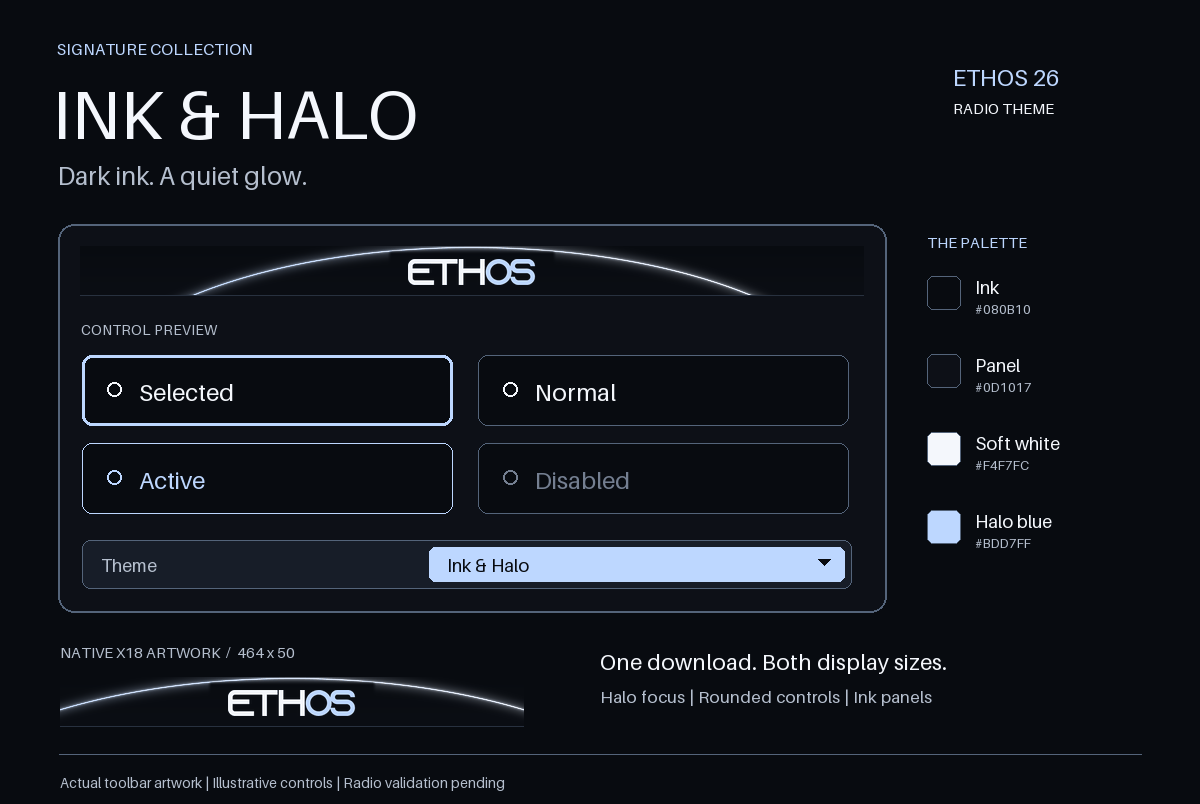
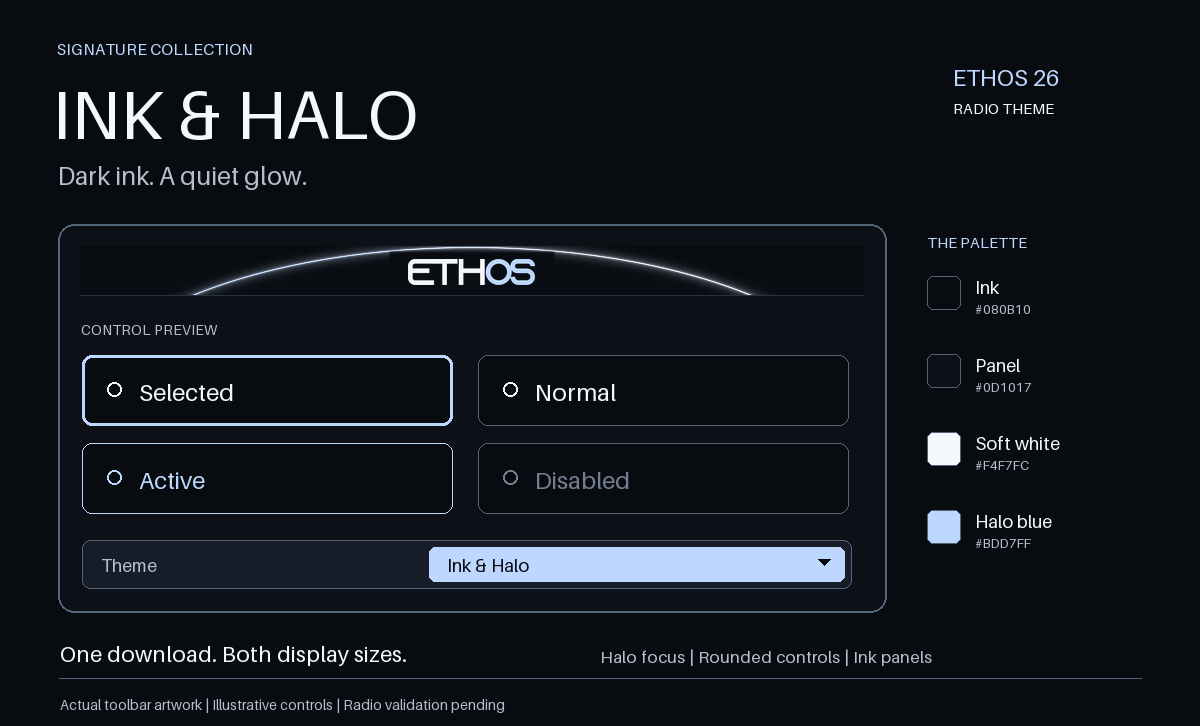
Simplify theme previews and bring the catalog forward

diff --git a/tools/preview_lib.py b/tools/preview_lib.py
@@ -9,7 +9,7 @@ ROOT = Path(__file__).resolve().parents[1]
 THEMES_ROOT = ROOT / "themes"
 PREVIEWS_ROOT = ROOT / "previews"
 ROLE_RE = re.compile(r"lcd\.RGB\(0x([0-9A-Fa-f]{2}),\s*0x([0-9A-Fa-f]{2}),\s*0x([0-9A-Fa-f]{2})\),\s*--\s*([A-Z_]+)")
-CARD_WIDTH, CARD_HEIGHT = 552, 442
+CARD_WIDTH, CARD_HEIGHT = 552, 366
 CARD_ROW_STEP = CARD_HEIGHT + 28
 
 
@@ -94,14 +94,9 @@ def draw_card(canvas, theme, x, y):
     scaled_height = round(large.height * 512 / large.width)
     large = large.resize((512, scaled_height), Image.Resampling.LANCZOS)
     canvas.paste(large, (x + 20, y + 83))
-    draw.text((x + 20, y + 127), "480 PX RADIOS  |  NATIVE HEADER",
-              font=font(12), fill=c["SECONDARY_COLOR"])
-    # Show the real X18 geometry at 1:1, centered in the same available width.
-    small = toolbar_preview(theme, display_width=480)
-    canvas.paste(small, (x + (width - small.width) // 2, y + 148))
     radius = 8 if theme["round"] else 0
     for index, label in enumerate(("Selected", "Normal", "Active", "Disabled")):
-        bx, by = x + 20 + index % 2 * 266, y + 219 + index // 2 * 72
+        bx, by = x + 20 + index % 2 * 266, y + 143 + index // 2 * 72
         fill, edge, foreground = panel, border, text
         if index == 0:
             edge = accent
@@ -117,16 +112,16 @@ def draw_card(canvas, theme, x, y):
         centered(draw, bounds, label, font(19, index == 0), foreground)
     # Show selected-fill text as well as outline focus: ETHOS uses highlight
     # colors in more places than the simple focus boxes shown above.
-    draw.rounded_rectangle((x + 20, y + 367, x + 179, y + 401), radius=5, fill=accent)
-    centered(draw, (x + 20, y + 367, x + 179, y + 401), "Highlight text", font(14, True), c["HIGHLIGHT_CONTRASTING_COLOR"])
-    draw.rounded_rectangle((x + 191, y + 367, x + 333, y + 401), radius=5, fill=c["SAFE_COLOR"])
-    centered(draw, (x + 191, y + 367, x + 333, y + 401), "Safe", font(14, True), c["SAFE_CONTRASTING_COLOR"])
-    draw.text((x + 352, y + 374), "Inactive", font=font(14), fill=c["INACTIVE_COLOR"])
-    draw.text((x + 20, y + 416), "ROUNDED CONTROLS" if theme["round"] else "SQUARE CONTROLS",
+    draw.rounded_rectangle((x + 20, y + 291, x + 179, y + 325), radius=5, fill=accent)
+    centered(draw, (x + 20, y + 291, x + 179, y + 325), "Highlight text", font(14, True), c["HIGHLIGHT_CONTRASTING_COLOR"])
+    draw.rounded_rectangle((x + 191, y + 291, x + 333, y + 325), radius=5, fill=c["SAFE_COLOR"])
+    centered(draw, (x + 191, y + 291, x + 333, y + 325), "Safe", font(14, True), c["SAFE_CONTRASTING_COLOR"])
+    draw.text((x + 352, y + 298), "Inactive", font=font(14), fill=c["INACTIVE_COLOR"])
+    draw.text((x + 20, y + 340), "ROUNDED CONTROLS" if theme["round"] else "SQUARE CONTROLS",
               font=font(10), fill=c["SECONDARY_COLOR"])
     for index, role in enumerate(("HIGHLIGHT_COLOR", "ACTIVE_COLOR", "WARNING_COLOR", "ERROR_COLOR")):
         left = x + 450 + index * 22
-        draw.ellipse((left, y + 417, left + 12, y + 429), fill=c[role])
+        draw.ellipse((left, y + 341, left + 12, y + 353), fill=c[role])
 
 
 def render_collection(slug, title, theme_slugs, *, display_names=None):

diff --git a/tools/generate_america250_theme.py b/tools/generate_america250_theme.py
@@ -108,7 +108,7 @@ def palette():
 def preview():
     theme = parse_theme(SLUG)
     colors = theme["colors"]
-    canvas = Image.new("RGB", (1200, 804), NAVY)
+    canvas = Image.new("RGB", (1200, 726), NAVY)
     draw = ImageDraw.Draw(canvas)
     # Pillow's embedded scalable font is portable across Windows and Linux.
     def font(size):
@@ -140,13 +140,10 @@ def preview():
         draw.rounded_rectangle((925, y, 958, y + 33), radius=5, fill=color,
                                outline=colors["BUTTON_BORDER_COLOR"])
         draw.text((973, y + 7), label, font=font(17), fill=IVORY)
-    draw.text((60, 638), "NATIVE X18 ARTWORK  /  464 x 50", font=font(16), fill=BLUE)
-    with Image.open(THEMES_ROOT / "theme-america250" / "toolbar-america250-x18.png") as art:
-        canvas.paste(art.convert("RGB"), (60, 676))
-    draw.text((602, 645), "One download. Both display sizes.", font=font(23), fill=IVORY)
-    draw.text((602, 683), "Gold focus | Square controls | Navy panels", font=font(17), fill=BLUE)
-    draw.line((59, 755, 1141, 755), fill=colors["BUTTON_BORDER_COLOR"])
-    draw.text((60, 773), "Actual toolbar artwork | Illustrative controls | Radio validation pending",
+    draw.text((60, 640), "One download. Both display sizes.", font=font(23), fill=IVORY)
+    draw.text((602, 646), "Gold focus | Square controls | Navy panels", font=font(17), fill=BLUE)
+    draw.line((59, 678, 1141, 678), fill=colors["BUTTON_BORDER_COLOR"])
+    draw.text((60, 696), "Actual toolbar artwork | Illustrative controls | Radio validation pending",
               font=font(14), fill=BLUE)
     PREVIEWS_ROOT.mkdir(parents=True, exist_ok=True)
     canvas.save(PREVIEWS_ROOT / "america250.png", optimize=True)

diff --git a/tools/generate_ink_halo_theme.py b/tools/generate_ink_halo_theme.py
@@ -89,7 +89,7 @@ def preview():
     accent = colors["HIGHLIGHT_COLOR"]
     secondary = colors["SECONDARY_COLOR"]
     border = colors["BUTTON_BORDER_COLOR"]
-    canvas = Image.new("RGB", (1200, 804), page)
+    canvas = Image.new("RGB", (1200, 726), page)
     draw = ImageDraw.Draw(canvas)
 
     def font(size):
@@ -137,13 +137,10 @@ def preview():
         draw.text((975, y), label, font=font(18), fill=text)
         draw.text((975, y + 25), "#" + "".join(f"{channel:02X}" for channel in color),
                   font=font(13), fill=secondary)
-    draw.text((60, 643), "NATIVE X18 ARTWORK  /  464 x 50", font=font(15), fill=secondary)
-    with Image.open(THEMES_ROOT / "theme-ink-halo" / "toolbar-ink-halo-x18.png") as art:
-        canvas.paste(art.convert("RGB"), (60, 677))
-    draw.text((600, 648), "One download. Both display sizes.", font=font(22), fill=text)
-    draw.text((600, 686), "Halo focus | Rounded controls | Ink panels", font=font(17), fill=secondary)
-    draw.line((59, 754, 1141, 754), fill=border)
-    draw.text((60, 774), "Actual toolbar artwork | Illustrative controls | Radio validation pending",
+    draw.text((60, 640), "One download. Both display sizes.", font=font(22), fill=text)
+    draw.text((600, 646), "Halo focus | Rounded controls | Ink panels", font=font(17), fill=secondary)
+    draw.line((59, 678, 1141, 678), fill=border)
+    draw.text((60, 696), "Actual toolbar artwork | Illustrative controls | Radio validation pending",
               font=font(14), fill=secondary)
     PREVIEWS_ROOT.mkdir(parents=True, exist_ok=True)
     canvas.save(PREVIEWS_ROOT / "ink-halo.png", optimize=True)

diff --git a/tools/test_preview_lib.py b/tools/test_preview_lib.py
@@ -53,7 +53,7 @@ class PreviewHeaderTests(unittest.TestCase):
             with self.assertRaisesRegex(ValueError, "Incomplete native theme"):
                 preview_lib.parse_theme("example")
 
-    def test_industrial_cards_show_both_headers_and_keep_everything_inside_bounds(self):
+    def test_industrial_cards_show_one_header_and_keep_everything_inside_bounds(self):
         for slug in ("carbon", "hazard"):
             with self.subTest(theme=slug):
                 theme = preview_lib.parse_theme(slug)
@@ -67,10 +67,6 @@ class PreviewHeaderTests(unittest.TestCase):
                 self.assertEqual(canvas.crop((x + 20, y + 83, x + 532,
                                               y + 83 + scaled_height)).tobytes(),
                                  expected_large.tobytes())
-                small = preview_lib.toolbar_preview(theme, display_width=480)
-                # The X18 sample remains 464x50 and occupies its own lower row.
-                self.assertEqual(canvas.crop((x + 44, y + 148, x + 508, y + 198)).tobytes(),
-                                 small.tobytes())
                 bounds = ImageChops.difference(canvas, background).getbbox()
                 self.assertIsNotNone(bounds)
                 self.assertGreaterEqual(bounds[0], x)

diff --git a/README.md b/README.md
@@ -2,19 +2,9 @@
 
 ## Radio compatibility
 
-Every current theme download automatically selects the correct toolbar artwork: **784x50** on 800px radios such as the X20 Pro and X18RS, or **464x50** on standard 480px X18 radios. One ZIP works on both display sizes.
+Standalone themes for **ETHOS 26.1.0 and newer**. One ZIP automatically selects the correct artwork for **800px radios** (X20 Pro, X18RS) or **480px X18 radios**.
 
-Standalone themes for FrSky ETHOS 26, with custom colors, controls, and toolbar artwork for the radio interface.
-
-**Current packages: seven updated themes v1.2.4; 59 collection themes v1.2.3; America 250 v1.2.1; Ink & Halo v1.0.2. All require ETHOS 26.1.0 or newer.** API checked against ETHOS 26.1.2. See [compatibility details and changes](ETHOS26.md). Physical-radio acceptance remains on the [testing checklist](TESTING.md).
-
-The **v1.2.4 refinements** fix Neon Horizon's sun stripes and deepen its perspective grid, strengthen selected-control outlines in Royal Blue Strong and Desert Tactical, and improve logo separation in Loom, Halftone, and Desert Tactical. Blue Pro and Classic Blue receive standalone-theme wording updates. Catalog previews now show the actual artwork for both radio sizes. [Changes and validation](ETHOS26.md#targeted-refinements-v124).
-
-The **v1.2.3 artwork update** restores continuous toolbar backgrounds and textures across the full width. Accent lines run below the ETHOS wordmark, while prominent illustrations sit beside it; there is no blank center strip. **Ink & Halo v1.0.2** keeps its wider, raised halo. Palettes, logo colors, and runtime behavior are preserved. [Artwork changes](ETHOS26.md#continuous-header-artwork-v123).
-
-The **v1.2.0 readability update** improves foreground contrast and refreshes every collection preview. [See changes and validation](VISUAL_UPGRADE.md).
-
-The **v1.2.1 logo update** introduced ETHOS header logos with transparent backgrounds, colored to match all 66 collection palettes. Each small logo bitmap is requested once during initialization; no recurring drawing task is added. America 250 keeps its anniversary inscription clear, and Ink & Halo keeps its existing wordmark. Startup and About/Info branding remain unchanged. [Details and native-theme limits](ETHOS26.md#collection-logo-update-v121).
+[Update history and compatibility](ETHOS26.md) · [Installation](#installation) · [Testing](TESTING.md)
 
 ## Featured: America 250
 
@@ -212,7 +202,7 @@ All themes can remain installed together. `main.luac` is intentionally omitted; 
 Family generators write both native toolbar sizes and their theme packages. Shared helpers preserve display-size selection, palette handling, and ZIP layout. Review regenerated files before publishing: font versions, image-compression tools, and manually maintained themes can affect output or require separate updates.
 
 - `tools/theme_lib.py` holds the shared packaging helpers every generator uses.
-- `tools/generate_all_previews.py` refreshes all catalog images from the current Lua palettes and toolbar files, including both native header sizes, America 250, Ink & Halo, and Classic. It does not regenerate the radio artwork.
+- `tools/generate_all_previews.py` refreshes all catalog images from the current Lua palettes and toolbar files, with one header sample per theme, including America 250, Ink & Halo, and Classic. It does not regenerate the radio artwork or remove either native-size asset from the downloads.
 - `tools/generate_america250_theme.py` regenerates America 250, both native-size toolbar images, its ETHOS Suite-compatible ZIP, and the featured preview.
 - `tools/generate_ink_halo_theme.py` regenerates Ink & Halo, its halo artwork at both native sizes, transparent logo override, ETHOS Suite-compatible ZIP, and preview.
 - `tools/test_ethos26.py` executes all themes against the documented ETHOS 26 API using Lua runtimes and API stubs. See [test commands](TESTING.md#automated-checks).

diff --git a/ETHOS26.md b/ETHOS26.md
@@ -4,6 +4,8 @@ All 68 current themes target **ETHOS 26.1.0 and newer** on the existing 480px an
 
 The v1.2.0 collection introduced [readability and preview improvements](VISUAL_UPGRADE.md). Seven collection packages are v1.2.4 and the other 59 remain v1.2.3; Ink & Halo is v1.0.2 and uses the same contrast checks, responsive artwork, and native registration behavior. America 250 remains v1.2.1.
 
+Each theme ZIP includes **784x50** artwork for 800px radios and **464x50** artwork for 480px radios, selected automatically. Current catalog previews show one header sample per theme using the larger artwork. They are desktop illustrations, not firmware screenshots; both native-size assets remain in every download.
+
 ## Targeted refinements: v1.2.4
 
 Seven themes receive v1.2.4 packages:
@@ -13,7 +15,7 @@ Seven themes receive v1.2.4 packages:
 - **Loom, Halftone, and Desert Tactical:** improve separation between the ETHOS logo and the continuous textured artwork.
 - **RF Blue Pro and RF Suite Blue (Classic Blue in the catalog):** clarify that each is a standalone ETHOS radio theme. Their existing theme names, folders, artwork, and runtime behavior are preserved.
 
-All catalog cards now show the actual 784x50 and 464x50 toolbar variants instead of showing only a resized copy of the larger image. These remain desktop illustrations, not firmware screenshots. Check the updated details on both radio sizes using [the testing checklist](TESTING.md).
+Check these details in both packaged toolbar sizes and on both radio sizes using [the testing checklist](TESTING.md). The single header sample in the catalog does not replace those checks.
 
 The remaining 59 collection themes stay at v1.2.3; Ink & Halo stays at v1.0.2 and America 250 at v1.2.1. Previous ZIPs remain frozen snapshots. The changes add no recurring Lua drawing work.
 

diff --git a/releases/README.md b/releases/README.md
@@ -2,7 +2,7 @@
 
 ## Current catalog
 
-Seven collection themes are now **v1.2.4**: Neon Horizon, Royal Blue Strong, Desert Tactical, Loom, Halftone, RF Blue Pro, and RF Suite Blue (Classic Blue in the catalog). The update fixes Neon Horizon's sun stripes and improves its grid depth, strengthens selected-control outlines and textured-header logo readability in the named themes, and clarifies the two Blue themes' standalone purpose. Catalog cards now show both native header sizes. See [the per-theme changes](../ETHOS26.md#targeted-refinements-v124).
+Seven collection themes are now **v1.2.4**: Neon Horizon, Royal Blue Strong, Desert Tactical, Loom, Halftone, RF Blue Pro, and RF Suite Blue (Classic Blue in the catalog). The update fixes Neon Horizon's sun stripes and improves its grid depth, strengthens selected-control outlines and textured-header logo readability in the named themes, and clarifies the two Blue themes' standalone purpose. Catalog previews show one header sample per theme; every download retains both native artwork sizes. See [the per-theme changes](../ETHOS26.md#targeted-refinements-v124).
 
 The remaining **59 collection themes stay at v1.2.3**. Continuous toolbar materials and theme identities are preserved across the collection, with no blank logo panel or recurring Lua drawing task. Earlier ZIPs remain frozen snapshots, including the previous v1.2.3 packages for the seven updated themes.
 

diff --git a/TESTING.md b/TESTING.md
@@ -51,8 +51,8 @@ Then rerun the checks. They cover 68 themes, both 480px and 800px artwork choice
 
 ## Catalog previews
 
-- Each theme card shows the shipped 784x50 and 464x50 toolbar variants with the corresponding logo, with clear size labels.
-- Check the smaller artwork directly, including its different motif placement or count; it should not be a resized copy of the larger toolbar.
+- Each theme preview shows one header sample with the corresponding logo; confirm there is no second banner beneath it.
+- Check that the sample uses the shipped 784x50 artwork. Inspect the packaged 464x50 artwork separately, including its different motif placement or count, and verify both native-size files remain in the download.
 - Verify the preview remains legible at the README's displayed size and labels it as an illustration. Catalog previews do not establish native firmware placement or physical-radio acceptance.
 
 ## Devices
